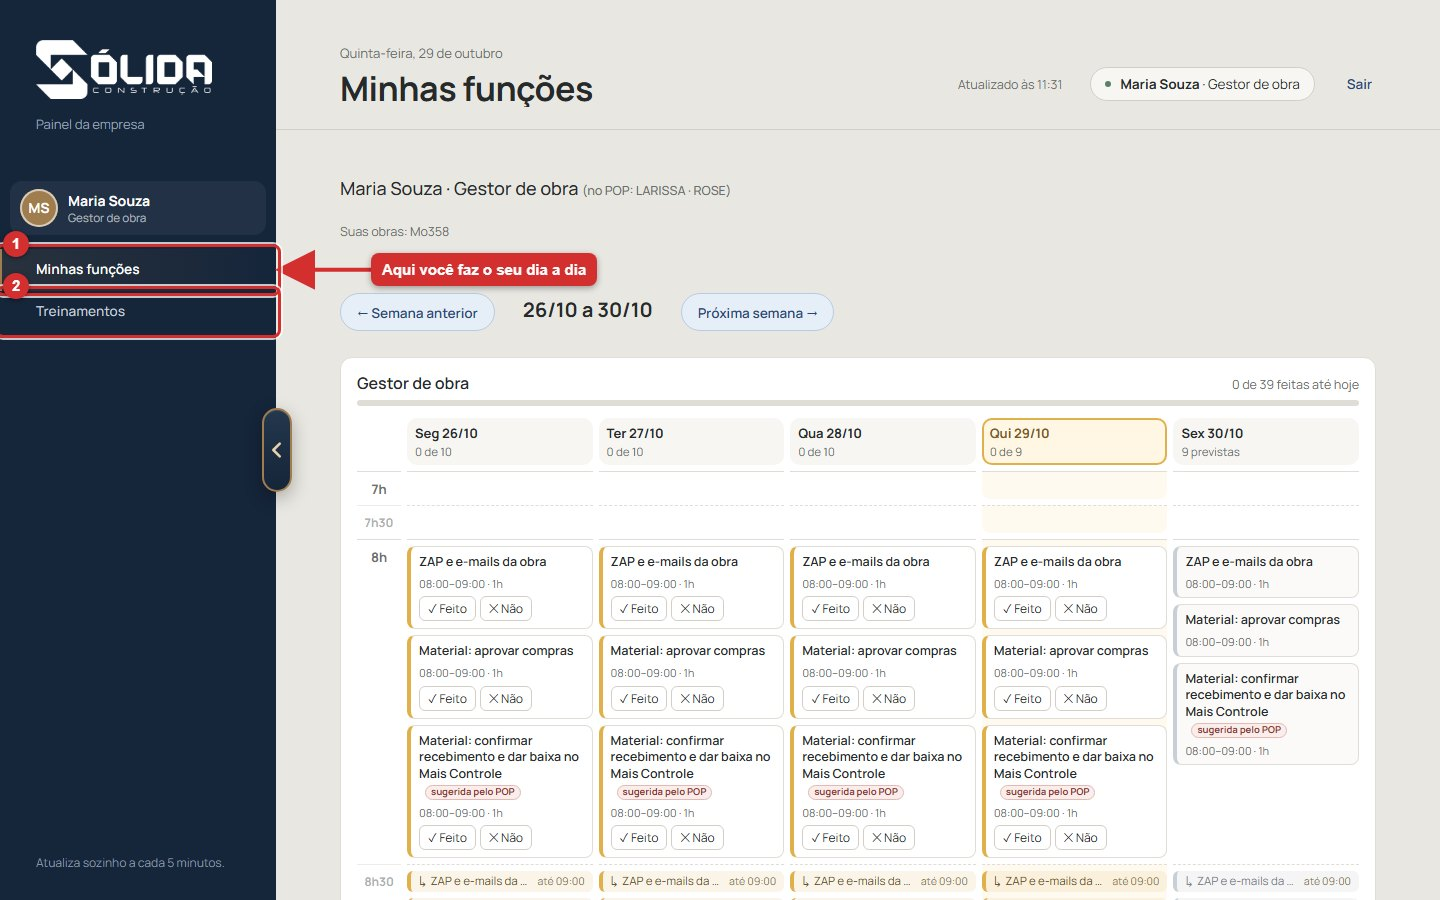
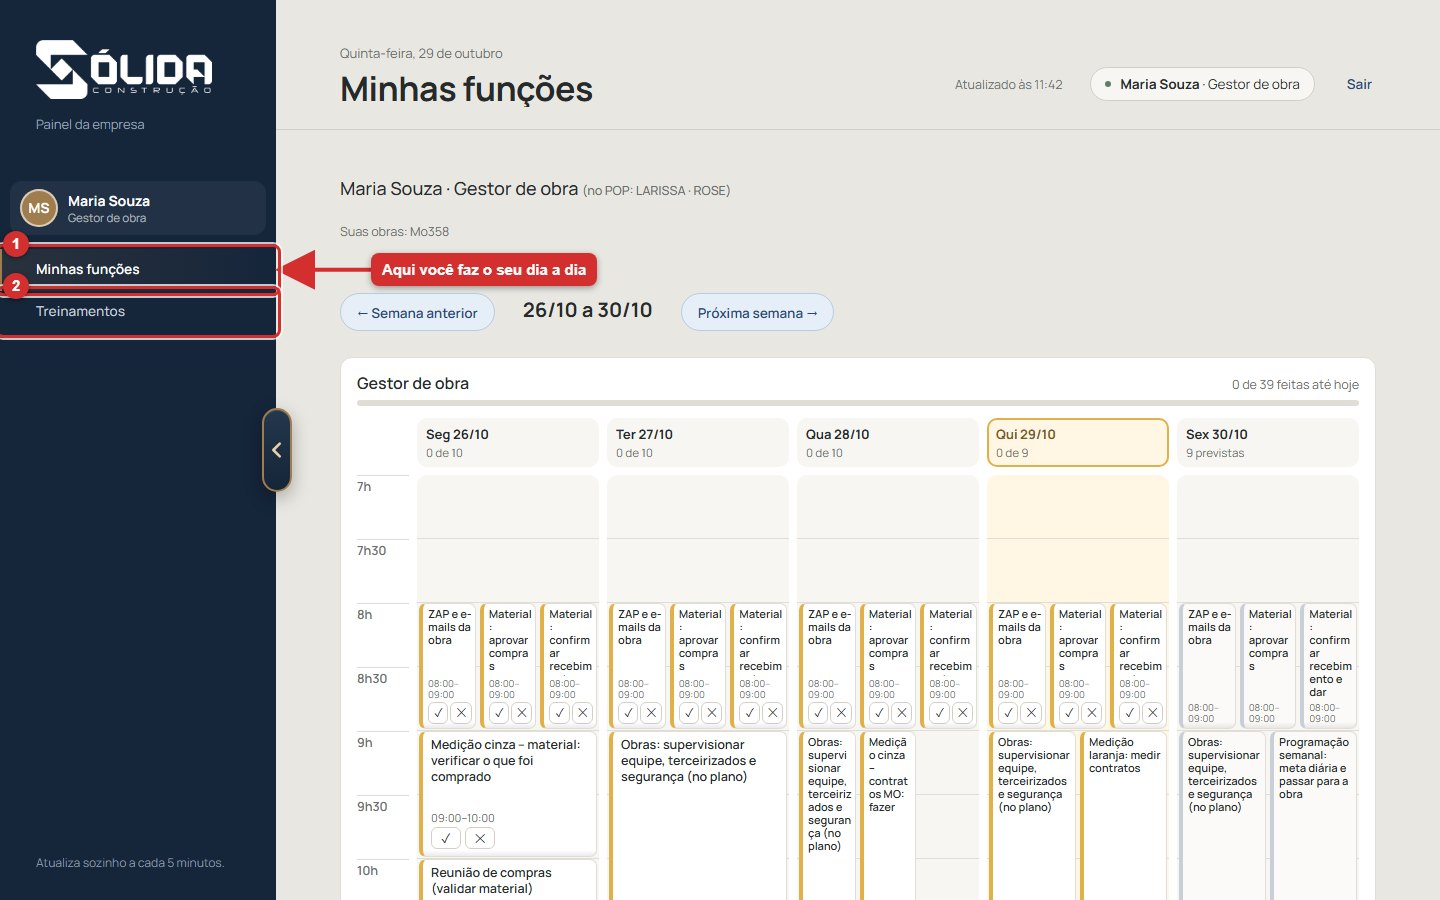
Minhas funcoes: agenda com linhas de meia hora iguais, um cartao por tarefa com a altura da duracao, segunda a sexta; arrastar e puxar a borda; prints e treinamento atualizados

diff --git a/app/js/telas/meudia.js b/app/js/telas/meudia.js
@@ -42,7 +42,7 @@ export const ABAS = [
 // Cada tarefa é um cartão: arrastar muda o dia/horário, puxar a borda de baixo muda a duração, clicar abre
 // uma janelinha com os detalhes (e os mesmos ajustes, para quem está no celular). Cartões no mesmo horário
 // ficam lado a lado, com o texto cortado em "…". O ajuste fica guardado neste navegador, por dia da tarefa.
-export const GRADE = { ini: 7 * 60, passo: 30, faixas: 24, alt: 52 };   // alt = altura de cada meia hora (maior = cartões com o texto inteiro)
+export const GRADE = { ini: 7 * 60, passo: 30, faixas: 24, alt: 64 };   // alt = altura de cada meia hora (maior = cartões com o texto inteiro)
 const PADRAO = 8 * 60; // sem horário no quadro: começa às 8h
 function previsto(t) {
   const txt = String(t.hora || '');
@@ -119,18 +119,16 @@ function caixaTarefa(t, data, estado, hoje, prova, rotuloDia = '', opc = {}) {
 }
 
 // Cartão no quadro
+// Um cartão só por tarefa, com a altura do tempo que ela ocupa (8h às 9h = duas linhas de meia hora). Tarefas no mesmo horário ficam lado a lado.
 function cartao(e, estado, hoje, prova) {
   const { t } = e;
   const altura = e.span * GRADE.alt - 2;
-  const grande = e.n === 1 && e.span >= 3;
-  const { cls, marca, acoes } = situacao(t, e.d, estado, hoje, prova, true);
-  const linhas = Math.max(1, Math.floor((altura - 8 - (grande ? 28 : 0) - (e.n === 1 && e.span >= 2 ? 14 : 0)) / 17));
-  const estilo = `top:${e.faixa * GRADE.alt}px;height:${altura}px;left:calc(${e.lane} * 100% / ${e.n} + 2px);width:calc(100% / ${e.n} - 4px);--l:${linhas}`;
-  return html`<div class="fq-card fn-${cls} ${e.mudou ? 'mudou' : ''}" style="${estilo}" title="${t.texto} — ${hhmm(e.ini)} a ${hhmm(e.ini + e.dur)} (${durTxt(e.dur)})" data-card="${t.id}|${e.d}" data-faixa="${e.faixa}" data-span="${e.span}">
-    ${marca ? html`<span class="fq-marca">${marca}</span>` : ''}
+  const { cls, acoes } = situacao(t, e.d, estado, hoje, prova, true, e.dia);
+  const estilo = `top:${e.faixa * GRADE.alt}px;height:${altura}px;left:calc(${e.lane} * 100% / ${e.n} + 2px);width:calc(100% / ${e.n} - 4px)`;
+  return html`<div class="fq-card fn-${cls} ${e.mudou ? 'mudou' : ''} ${e.n > 1 ? 'fq-estreito' : ''}" style="${estilo}" title="${t.texto} — ${hhmm(e.ini)} a ${hhmm(e.ini + e.dur)} (${durTxt(e.dur)}). Arraste para mudar o horário ou o dia; puxe a borda de baixo para mudar a duração; clique para ver os detalhes." data-card="${t.id}|${e.d}" data-faixa="${e.faixa}" data-span="${e.span}">
     <div class="fq-nome">${t.texto}</div>
-    ${e.n === 1 && e.span >= 2 ? html`<div class="fn-meta">${hhmm(e.ini)}–${hhmm(e.ini + e.dur)}</div>` : ''}
-    ${grande && acoes ? html`<div class="fn-acoes">${acoes}</div>` : ''}
+    <div class="fn-meta">${hhmm(e.ini)}–${hhmm(e.ini + e.dur)}${e.mudou ? ' · ↺' : ''}</div>
+    ${acoes ? html`<div class="fn-acoes">${acoes}</div>` : ''}
     <div class="fq-alca" title="Puxe para mudar a duração"></div>
   </div>`;
 }
@@ -190,7 +188,8 @@ function funcoesSemana(ref, CFG) {
   // a semana é de segunda a sexta: o sábado só aparece se a pessoa tiver alguma tarefa nele
   const colunas = dias.map((c) => { const l = lados(todos.filter((e) => e.dia === c)); return { c, l, fe: l.filter((e) => feita(e.t, e.d)).length }; }).filter(({ l }, i) => i < 5 || l.length);
   const altTotal = GRADE.faixas * GRADE.alt;
-  const horas = Array.from({ length: GRADE.faixas / 2 }, (_, i) => html`<span style="top:${i * 2 * GRADE.alt}px">${GRADE.ini / 60 + i}h</span>`);
+  const rotuloSlot = (s) => (s % 60 ? `${Math.floor(s / 60)}h30` : `${s / 60}h`);
+  const horas = Array.from({ length: GRADE.faixas }, (_, i) => html`<span style="top:${i * GRADE.alt}px">${rotuloSlot(GRADE.ini + i * GRADE.passo)}</span>`);
   const cabecas = colunas.map(({ c, l, fe }, i) => html`<div class="fq-cab ${c === hoje ? 'hoje' : ''}"><b>${DIA_CURTO[i]} ${c.slice(8, 10)}/${c.slice(5, 7)}</b><small>${feriado(c) ? 'feriado' : l.length ? (c > hoje ? `${l.length} previstas` : `${fe} de ${l.length}`) : 'sem tarefas'}</small></div>`);
   const trilhos = colunas.map(({ c, l }) => html`<div class="fq-trilho ${c === hoje ? 'hoje' : ''}" data-trilho="${c}" style="height:${altTotal}px">${l.map((e) => cartao(e, estadoDe(e.t, e.d), hoje, provaDoDia(e.t, e.d)))}</div>`);
 
@@ -201,21 +200,12 @@ function funcoesSemana(ref, CFG) {
       <div class="fq-cab ${c === hoje ? 'hoje' : ''}"><b>${DIA_CURTO[i]} ${c.slice(8, 10)}/${c.slice(5, 7)}</b><small>${feriado(c) ? 'feriado' : l.length ? (c > hoje ? `${l.length} previstas` : `${fe} de ${l.length} feitas`) : 'sem tarefas'}</small></div>
       ${[...l].sort((a, b) => a.ini - b.ini).map((e) => caixaTarefa(e.t, e.d, estadoDe(e.t, e.d), hoje, null, dispo(e)))}
     </div>`)}</div>`;
-  // Grade por hora (padrão em tela larga): horas na lateral, um dia por coluna. Tarefas do mesmo horário ficam empilhadas na célula
-  // (cada uma com o texto inteiro), então nada fica espremido nem cortado e os 6 dias cabem na tela sem rolar para o lado.
-  // todas as horas do dia de trabalho (7h às 18h, ou mais se houver tarefa fora disso): assim dá para soltar um cartão em qualquer horário
-  // cada linha da grade é MEIA HORA (9h, 9h30, 10h…): assim um cartão às 9h30 aparece na linha das 9h30, e não junto com o das 9h
-  const ms = colunas.flatMap(({ l }) => l.map((e) => Math.floor(e.ini / 30) * 30));
-  const ini30 = Math.min(7 * 60, ...ms); const fim30 = Math.max(18 * 60 + 30, ...ms);
-  const slots = Array.from({ length: (fim30 - ini30) / 30 + 1 }, (_, i) => ini30 + i * 30);
-  const rotuloSlot = (s) => (s % 60 ? `${Math.floor(s / 60)}h30` : `${s / 60}h`);
-  const vistaHoras = html`<div class="fh-grade" style="--nd:${colunas.length}">
-    <div class="fh-canto"></div>
-    ${colunas.map(({ c, l, fe }, i) => html`<div class="fq-cab fh-dia ${c === hoje ? 'hoje' : ''}"><b>${DIA_CURTO[i]} ${c.slice(8, 10)}/${c.slice(5, 7)}</b><small>${feriado(c) ? 'feriado' : l.length ? (c > hoje ? `${l.length} previstas` : `${fe} de ${l.length}`) : 'sem tarefas'}</small></div>`)}
-    ${slots.map((s) => html`<div class="fh-hora ${s % 60 ? 'fh-meia' : ''}"><b>${rotuloSlot(s)}</b></div>${colunas.map(({ c, l }) => html`<div class="fh-cel ${c === hoje ? 'hoje' : ''} ${s % 60 ? 'fh-cel-meia' : ''}" data-cel-dia="${c}" data-cel-min="${s}">${l.filter((e) => e.ini < s && Math.floor(e.ini / 30) * 30 < s && e.ini + e.dur > s).map((e) => html`<div class="fh-cont fn-${situacao(e.t, e.d, estadoDe(e.t, e.d), hoje, null, true, e.dia).cls}" title="${e.t.texto} · ${hhmm(e.ini)}–${hhmm(e.ini + e.dur)}">↳ <span>${e.t.texto}</span> <small>até ${hhmm(e.ini + e.dur)}</small></div>`)}${l.filter((e) => Math.floor(e.ini / 30) * 30 === s).sort((a, b) => a.ini - b.ini).map((e) => caixaTarefa(e.t, e.d, estadoDe(e.t, e.d), hoje, null, dispo(e), { mover: true, mudou: e.mudou, dur: e.dur, dataVista: e.dia }))}</div>`)}`)}
-  </div>
-  <p class="legenda-semana">Para mudar o horário ou o dia de uma tarefa, segure o cartão e arraste para outra linha da grade, no mesmo dia ou em outro dia da semana (cada linha é meia hora: 9h, 9h30, 10h…). Para mudar quanto tempo ela ocupa no dia, clique na tarefa. O que você ajustar vale para todas as semanas e é só seu. "↺ movida" volta ao quadro original.</p>`;
-  const botoesVista = html`<div class="fl-vista" role="group" aria-label="Como ver as tarefas"><span class="pequeno">Ver:</span>
+  // Agenda (padrão em tela larga): horas de meia em meia hora na lateral, um dia por coluna, e UM cartão por tarefa com a altura do tempo
+  // que ela ocupa (8h às 9h ocupa as linhas de 8h e 8h30). Tarefas no mesmo horário ficam lado a lado e a coluna do dia alarga para caber.
+  const lanes = (l) => Math.max(1, ...l.map((e) => e.n || 1));
+  const colsCss = `52px ${colunas.map(({ l }) => `minmax(${lanes(l) * 48}px, ${lanes(l)}fr)`).join(' ')}`;   // no mínimo ~48 px por cartão lado a lado (a página não rola para o lado)
+  const vistaQuadro = html`<div class="fq-quadro" style="grid-template-columns:${colsCss}"><div class="fq-canto"></div>${cabecas}<div class="fq-horas" style="height:${altTotal}px">${horas}</div>${trilhos}</div>
+  <p class="legenda-semana">Segure um cartão e arraste para outro horário ou outro dia da semana (cada linha é meia hora); puxe a borda de baixo do cartão para mudar quanto tempo a tarefa ocupa; clique no cartão para ver os detalhes. O que você ajustar vale para as próximas semanas e é só seu. "↺" no cartão = foi mexido; abra o cartão para voltar ao quadro original.</p>`;  const botoesVista = html`<div class="fl-vista" role="group" aria-label="Como ver as tarefas"><span class="pequeno">Ver:</span>
     <button type="button" class="botao ${vista === 'lista' ? 'on' : ''}" data-vista-fn="lista">Lista por dia</button>
     <button type="button" class="botao ${vista === 'quadro' ? 'on' : ''}" data-vista-fn="quadro">Por horário</button></div>`;
 
@@ -230,7 +220,7 @@ function funcoesSemana(ref, CFG) {
       <header class="fn-cab"><h3>${f.nome}</h3>
         <span class="pequeno">${previstas ? `${feitas} de ${previstas} feitas até hoje` : 'nenhuma tarefa até hoje'}</span></header>
       ${previstas ? html`<div class="pct" style="margin:6px 0 12px"><i style="width:${Math.round((feitas / previstas) * 100)}%"></i></div>` : ''}
-      ${vista === 'lista' ? html`<div class="fh-larga">${vistaHoras}</div><div class="fh-estreita">${vistaLista}</div>` : html`<div class="fq-quadro"><div class="fq-canto"></div>${cabecas}<div class="fq-horas" style="height:${altTotal}px">${horas}</div>${trilhos}</div>
+      ${vista === 'lista' ? html`<div class="fh-larga">${vistaQuadro}</div><div class="fh-estreita">${vistaLista}</div>` : html`<div class="fq-quadro"><div class="fq-canto"></div>${cabecas}<div class="fq-horas" style="height:${altTotal}px">${horas}</div>${trilhos}</div>
       <p class="legenda-semana">Arraste um cartão para outro dia ou horário; puxe a borda de baixo para mudar a duração; clique para ver os detalhes. Cartões no mesmo horário ficam lado a lado. O ajuste fica guardado neste navegador.</p>`}
       <p class="legenda-semana"><span class="lg lg-ok"></span> feito <span class="lg lg-abaixo"></span> não feito <span class="lg lg-sem"></span> falta marcar · você mesmo marca cada tarefa: ✓ Feito ou ✕ Não feito · clique numa marcação para desfazer</p>
     </section>
@@ -304,13 +294,16 @@ export function instalarQuadro(aoMudar) {
     if (!x.moveu) { reset(); if (!x.alca) { popup = { id: x.id, d: x.d }; aoMudar(); } return; }
     if (x.alca) {
       const span = Math.max(1, Math.round((x.h0 + (e.clientY - x.y0) + 2) / GRADE.alt));
-      moverHorario(pessoa, x.d, x.id, { dur: span * GRADE.passo });
+      fixarHorario(pessoa, x.id, { dur: span * GRADE.passo });   // quanto tempo a tarefa ocupa: vale para todas as semanas, só para esta pessoa
     } else {
       const trilhos = [...document.querySelectorAll('.fq-trilho')];
       const alvo = trilhos.find((t) => { const r = t.getBoundingClientRect(); return e.clientX >= r.left && e.clientX < r.right; }) || x.trilho;
       const r = alvo.getBoundingClientRect();
       const faixa = limitar(Math.round((e.clientY - x.desloc - r.top) / GRADE.alt), 0, GRADE.faixas - x.span);
-      moverHorario(pessoa, x.d, x.id, { dia: alvo.dataset.trilho, ini: GRADE.ini + faixa * GRADE.passo });
+      // horário novo (linha de meia hora) e dia da semana novo: valem para a tarefa nas próximas semanas, só para esta pessoa
+      const dowDe = (iso) => new Date(`${iso}T12:00:00`).getDay();
+      const origem = dowDe(x.d); const destino = dowDe(alvo.dataset.trilho);
+      fixarHorario(pessoa, x.id, { ini: GRADE.ini + faixa * GRADE.passo, dias: { [origem]: destino === origem ? null : destino } });
     }
     reset();
     aoMudar();

diff --git a/app/js/treinamentos-slides.js b/app/js/treinamentos-slides.js
@@ -32,11 +32,11 @@ export const SUBTOPICOS = [
         resumo: 'Suas tarefas da semana: como ver, marcar o que foi feito e o que não foi, e mudar o horário de cada uma.',
         slides: [
           { imagem: img('func-01-menu'), titulo: 'Onde fica', texto: 'Minhas funções é a página onde você controla o seu trabalho do dia a dia. No menu da esquerda, clique em Minhas funções.',
-            legenda: ['Minhas funções: as tarefas da sua função, de segunda a sábado.', 'Treinamentos: aqui você revê este passo a passo quando quiser.'] },
-          { imagem: img('func-02-quadro'), titulo: 'A sua semana', texto: 'Cada coluna é um dia (de segunda a sábado), as horas ficam na lateral e cada cartão é uma tarefa da sua função. A barra mostra quantas você já marcou como feitas na semana.',
-            legenda: ['O seu nome e a sua função.', 'Barra de progresso: tarefas feitas até hoje.', 'O dia: o de hoje fica destacado em amarelo e mostra quantas tarefas você já fez.', 'Um cartão = uma tarefa. Tarefas do mesmo horário ficam uma embaixo da outra, com o texto inteiro.'],
+            legenda: ['Minhas funções: as tarefas da sua função, de segunda a sexta.', 'Treinamentos: aqui você revê este passo a passo quando quiser.'] },
+          { imagem: img('func-02-quadro'), titulo: 'A sua semana', texto: 'Cada coluna é um dia (de segunda a sexta), as horas ficam na lateral (de meia em meia hora) e cada cartão é uma tarefa da sua função. O cartão tem a altura do tempo que a tarefa ocupa: uma tarefa de 8h às 9h ocupa as linhas das 8h e das 8h30. A barra mostra quantas você já marcou como feitas na semana.',
+            legenda: ['O seu nome e a sua função.', 'Barra de progresso: tarefas feitas até hoje.', 'O dia: o de hoje fica destacado em amarelo e mostra quantas tarefas você já fez.', 'Um cartão = uma tarefa, do começo ao fim do horário dela. Tarefas no mesmo horário ficam lado a lado.'],
             dica: 'Tarefas de dias que ainda não chegaram aparecem em cinza: só dá para marcar de hoje para trás.' },
-          { imagem: img('func-10-menu'), titulo: 'O menu recolhe para dar espaço', texto: 'Quando você abre uma página, o menu da esquerda recolhe e sobra só uma tirinha com uma setinha. Assim os 6 dias da semana cabem na tela, com as horas na lateral.',
+          { imagem: img('func-10-menu'), titulo: 'O menu recolhe para dar espaço', texto: 'Quando você abre uma página, o menu da esquerda recolhe e sobra só uma tirinha com uma setinha. Assim os dias da semana cabem na tela, com as horas na lateral.',
             legenda: ['Clique na setinha para abrir o menu de novo.'] },
           { imagem: img('func-03-marcar'), titulo: 'Marque cada tarefa: feito ou não feito', texto: 'Em cada cartão há dois botões. O sistema não marca nada por você: só vale o que você marcar.',
             legenda: ['O nome completo da tarefa.', 'Fez a tarefa? Clique em ✓ Feito.', 'Não deu para fazer? Clique em ✕ Não.'],
@@ -44,10 +44,10 @@ export const SUBTOPICOS = [
           { imagem: img('func-04-cores'), titulo: 'As cores dos cartões', texto: 'Depois de marcar, o cartão muda de cor para você bater o olho e ver o que falta.',
             legenda: ['Verde: você marcou como feita.', 'Vermelho: você marcou como não feita.', 'Amarelo: ainda falta você marcar (tarefa sem marcação conta como não entregue).'],
             dica: 'Sempre marque no mesmo dia: é mais fácil de lembrar e o seu progresso fica certo.' },
-          { imagem: img('func-11-mover'), titulo: 'Mude o horário ou o dia de uma tarefa', texto: 'Quer fazer uma tarefa em outra hora, ou em outro dia da semana? Segure o cartão, arraste e solte no dia e na hora que quiser. O novo horário e o novo dia ficam valendo nas próximas semanas, só para você: ninguém mais é afetado e eles não voltam sozinhos.',
+          { imagem: img('func-11-mover'), titulo: 'Mude o horário ou o dia de uma tarefa', texto: 'Quer fazer uma tarefa em outra hora, ou em outro dia da semana? Segure o cartão, arraste e solte no dia e na meia hora que quiser (se soltar às 9h30, a tarefa vai até as 10h). O novo horário e o novo dia ficam valendo nas próximas semanas, só para você: ninguém mais é afetado e eles não voltam sozinhos.',
             legenda: ['O cartão que você moveu fica marcado e mostra o novo horário.', '↺ movida: clique para voltar ao horário original do quadro.'],
-            dica: 'Cada linha da grade é meia hora (11h, 11h30, 12h…): solte o cartão na linha do horário que você quer. Tarefa que você mudou de dia só pode ser marcada a partir do dia em que ela passou a ficar.' },
-          { imagem: img('func-12-duracao'), titulo: 'Quanto tempo a tarefa ocupa no dia', texto: 'Clique em uma tarefa (no texto do cartão) para abrir uma caixinha. Nela você muda quanto tempo a tarefa ocupa no seu dia e também pode marcar feito ou não feito. O cartão fica mais alto quando a tarefa ocupa mais tempo.',
+            dica: 'Cada linha da grade é meia hora (11h, 11h30, 12h…): solte o cartão na linha onde a tarefa deve começar. Tarefa que você mudou de dia só pode ser marcada a partir do dia em que ela passou a ficar.' },
+          { imagem: img('func-12-duracao'), titulo: 'Quanto tempo a tarefa ocupa no dia', texto: 'Puxe a borda de baixo do cartão para ele ocupar mais ou menos linhas, ou clique no cartão para abrir uma caixinha com os botões − 30 min e + 30 min. Aí você também pode marcar feito ou não feito. O cartão fica mais alto quando a tarefa ocupa mais tempo.',
             legenda: ['O nome completo da tarefa.', '− 30 min: a tarefa passa a ocupar menos tempo.', '+ 30 min: a tarefa passa a ocupar mais tempo.', 'Situação: ✓ Feito ou ✕ Não feito, igual no cartão.'],
             dica: 'A duração que você escolher vale para essa tarefa em todas as semanas e é só sua. Para voltar ao original, use "↺ Voltar ao quadro" na caixinha.' },
           { imagem: img('func-07-semanas'), titulo: 'Semanas anteriores e próximas', texto: 'Esqueceu de marcar alguma coisa? Volte à semana anterior e marque lá. Você também vê a semana que vem.',

diff --git a/app/css/estilo.css b/app/css/estilo.css
@@ -2136,3 +2136,27 @@ body.sem-login .nav-handle { display: none; }
 .fh-cont.fn-nao { border-left-color: #D9534F; background: rgba(217, 83, 79, .10); color: #9B3A33; }
 .fh-cont.fn-futuro { border-left-color: #C9CFD6; background: rgba(0, 0, 0, .04); color: #7A828C; }
 body.nav-recolhido .fh-cont { font-size: 12.5px; }
+
+/* ---- Agenda de Minhas funções (21/10): um cartão por tarefa ocupando as linhas de meia hora, horários todos iguais ---- */
+.fq-quadro { column-gap: 8px; overflow-x: visible; }
+.fq-horas { font-size: 12.5px; color: var(--muted); }
+.fq-horas span { border-top: 1px solid var(--linha2); padding-top: 2px; font-weight: 600; }
+.fq-trilho { background-image: repeating-linear-gradient(to bottom, transparent 0, transparent 63px, var(--linha2) 63px, var(--linha2) 64px); }
+.fq-card { padding: 5px 7px 7px 8px; font-size: 12.5px; line-height: 16px; gap: 3px; }
+.fq-nome { display: block; flex: 1 1 auto; min-height: 0; overflow: hidden; text-overflow: clip; -webkit-line-clamp: unset; -webkit-box-orient: unset; font-weight: 600; word-break: break-word; }
+.fq-card .fn-meta { font-size: 11px; line-height: 13px; flex: none; }
+.fq-card .fn-acoes { flex: none; margin-top: auto; flex-wrap: nowrap; gap: 4px; }
+.fq-card .fn-b { padding: 2px 9px; font-size: 13px; }
+.fq-card.fq-estreito { font-size: 11.5px; line-height: 14px; padding: 4px 5px 6px 6px; }
+.fq-card.fq-estreito .fn-b { padding: 1px 7px; font-size: 12px; }
+.fq-card.mudou { box-shadow: inset 0 0 0 1px #E0B04A; }
+body.nav-recolhido .fq-card { font-size: 13.5px; line-height: 17px; }
+body.nav-recolhido .fq-card.fq-estreito { font-size: 12.5px; line-height: 15px; }
+
+/* cartões lado a lado (tarefas no mesmo horário): letra e botões compactos para caber */
+.fq-quadro { overflow-x: auto; }
+.fq-card.fq-estreito { font-size: 11px; line-height: 13px; padding: 3px 3px 4px 5px; gap: 2px; }
+.fq-card.fq-estreito .fn-meta { font-size: 9.5px; line-height: 11px; }
+.fq-card.fq-estreito .fn-acoes { gap: 2px; }
+.fq-card.fq-estreito .fn-b { padding: 0 5px; font-size: 12px; min-width: 20px; line-height: 20px; }
+body.nav-recolhido .fq-card.fq-estreito { font-size: 11.5px; line-height: 14px; }
